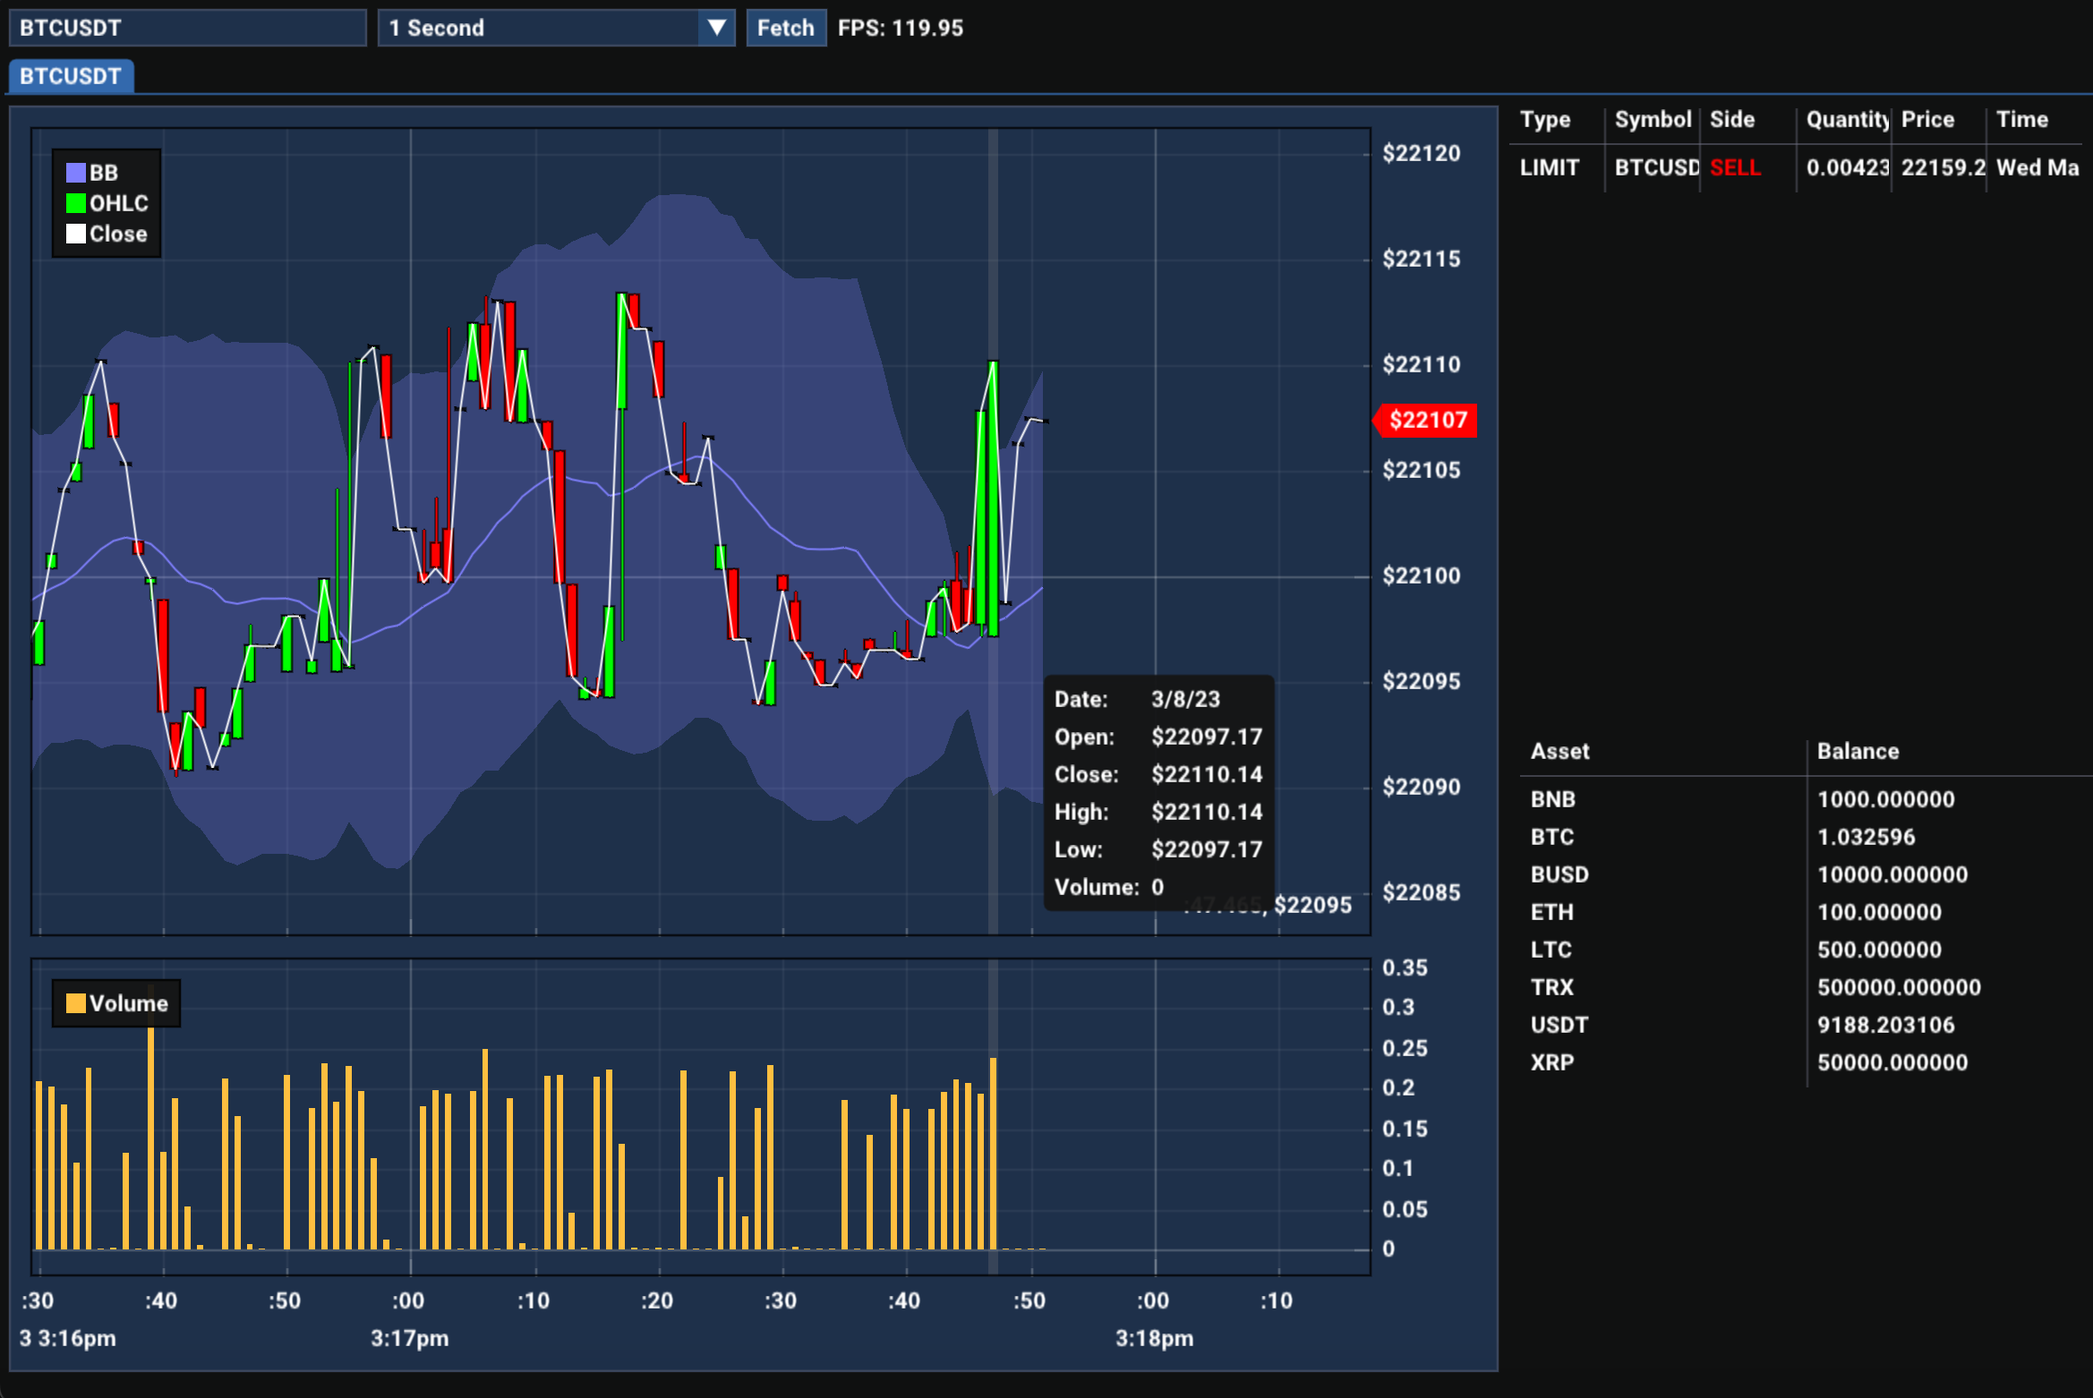
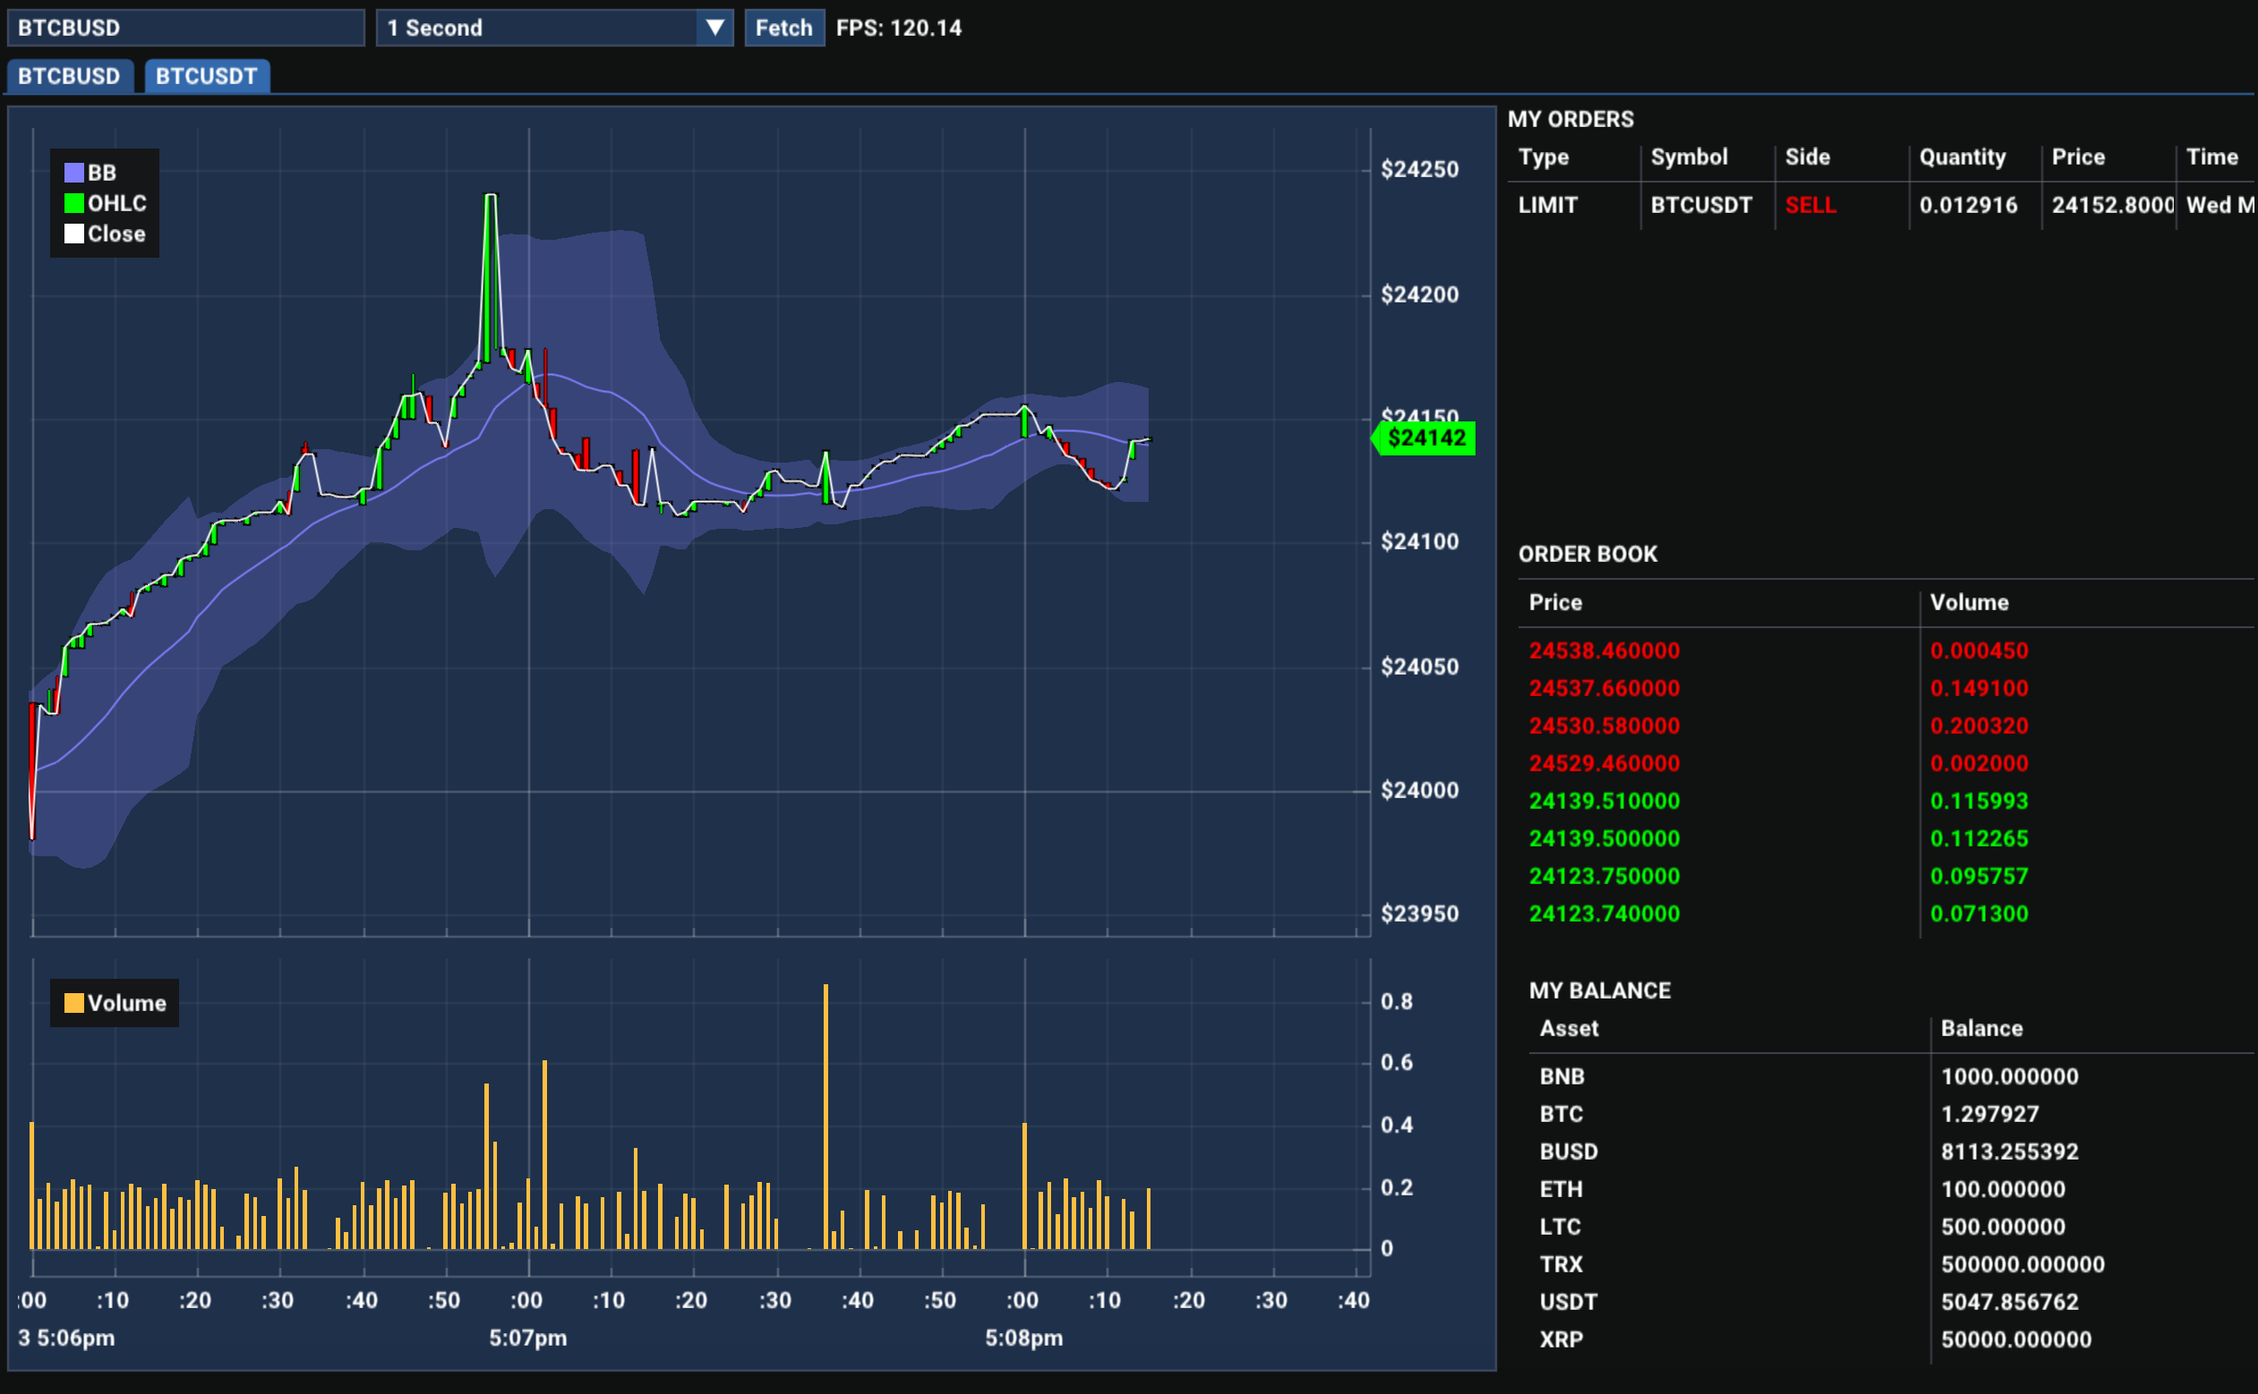
Fix order manager, add examples

diff --git a/examples/market_making.cpp b/examples/market_making.cpp
@@ -1,0 +1,133 @@
+/**
+ * @file market_making.cpp
+ * @author Anouar Achghaf
+ * @date 15/03/2023
+ * @brief Market making strategy
+ */
+
+#include "ats.h"
+#include "binance_logger.h"
+#include "Plotter.h"
+#include <numeric>
+#include <ctime>
+
+using namespace ats;
+
+class MMStrategy : public Strategy {
+public:
+    /**
+     * @brief Constructs an ExampleStrategy object
+     * @param symbol The symbol the strategy will trade
+     * @param data MarketData object to get market information
+     * @param orderManager OrderManager object to create and manage orders
+     * @param prices Vector of historical prices (default empty)
+     */
+    MMStrategy(std::string symbol, MarketData &data, OrderManager &orderManager,
+               std::string hedgeSymbol)
+            : Strategy(symbol, data, orderManager, {}), mHedgeSymbol(hedgeSymbol) {}
+
+private:
+    std::map<std::string, double> mBalances;
+    std::string mHedgeSymbol;
+    std::vector<double> mHedgePrices;
+    time_t mLastOrder{0};
+    time_t mDataFetch{0};
+public:
+    ~MMStrategy() {
+        mOrderManager.cancelAllOrders();
+        stop();
+    }
+
+    virtual void updatePrice() override {
+        double currentPrice = mData.getPrice(mSymbol);
+        double hedgePrice = mData.getPrice(mHedgeSymbol);
+        time_t new_t;
+        time(&new_t);
+        if (difftime(new_t, mDataFetch) > 1) {
+            mPrices.push_back(currentPrice);
+            mHedgePrices.push_back(hedgePrice);
+            time(&mDataFetch);
+        }
+    }
+
+    virtual double getSignal() override {
+        updatePrice();
+        auto ob1 = mData.getOrderBook(mSymbol);
+        auto ob2 = mData.getOrderBook(mHedgeSymbol);
+        if (ob1.bid.empty() || ob2.bid.empty() || ob1.ask.empty() || ob2.ask.empty())
+            return 0;
+        if (ob1.bid[0] > ob2.ask[0])
+            return 1;
+        else if (ob2.bid[0] > ob1.ask[0])
+            return -1;
+        return 0;
+    }
+
+    void updateBalance() {
+        mBalances = mData.getBalances();
+    }
+
+    virtual void buy() override {
+        time_t curTime(0);
+        time(&curTime);
+        if (difftime(curTime, mLastOrder) < 5)
+            return;
+        updateBalance();
+        double quantity = floor(mBalances["BTC"]*0.01 * 1e6) / 1e6;
+        quantity = std::min(quantity, floor(mBalances["USDT"]*0.01/mHedgePrices.back()*1e6)/1e6);
+        if (quantity < 1e-6) return;
+        OrderBook ob1 = mData.getOrderBook(mSymbol);
+        OrderBook ob2 = mData.getOrderBook(mHedgeSymbol);
+        quantity = std::min(quantity, ob1.bidVol[0]);
+        double price = ob1.bid[0];
+        if (price*quantity < 10) return;
+        mOrderManager.setLastOrderQty(-1);
+        mOrderManager.createOrder(Order(0, LIMIT, SELL, mSymbol,
+                                        quantity,
+                                        price, 0, 0, 0, 0, "IOC", 0));
+        while (mOrderManager.getLastOrderQty() == -1) continue;
+        double qty = mOrderManager.getLastOrderQty();
+        mOrderManager.setLastOrderQty(-1);
+        if (qty > 1e-7)
+            mOrderManager.createOrder(Order(0, LIMIT, BUY, mHedgeSymbol, qty, ob2.ask[0], 0, 0, 0, 0, "GTC", 0));
+        time(&mLastOrder);
+    }
+
+    virtual void sell() override {
+        time_t curTime(0);
+        time(&curTime);
+        if (difftime(curTime, mLastOrder) < 5)
+            return;
+        updateBalance();
+        double quantity = floor(mBalances["BTC"]*0.01 * 1e6) / 1e6;
+        quantity = std::min(quantity, floor(mBalances["BUSD"]*0.01/mPrices.back()*1e6)/1e6);
+        if (quantity < 1e-6) return;
+        OrderBook ob1 = mData.getOrderBook(mSymbol);
+        OrderBook ob2 = mData.getOrderBook(mHedgeSymbol);
+        quantity = std::min(quantity, ob1.bidVol[0]);
+        double price = ob1.ask[0];
+        if (price*quantity < 10) return;
+        mOrderManager.setLastOrderQty(-1);
+        mOrderManager.createOrder(Order(0, LIMIT, BUY, mSymbol,
+                                        quantity,
+                                        price, 0, 0, 0, 0, "IOC", 0));
+        while (mOrderManager.getLastOrderQty() == -1) continue;
+        double qty = mOrderManager.getLastOrderQty();
+        mOrderManager.setLastOrderQty(-1);
+        if (qty > 1e-7)
+            mOrderManager.createOrder(Order(0, LIMIT, SELL, mHedgeSymbol, qty, ob2.bid[0], 0, 0, 0, 0, "GTC", 0));
+        time(&mLastOrder);
+    }
+};
+
+int main(int argc, char const *argv[]) {
+    binance::Logger::set_debug_level(1);
+    binance::Logger::set_debug_logfp(stderr);
+    OrderManager oms;
+    BinanceExchangeManager ems(oms, 1);
+    MarketData md({"BTCUSDT", "BTCBUSD"}, ems);
+    MMStrategy strat("BTCBUSD", md, oms, "BTCUSDT");
+    ImBinance app("ImBinance", 1280, 800, argc, argv, ems);
+    app.Run();
+    return 0;
+}

diff --git a/include/Plotter.h b/include/Plotter.h
@@ -253,7 +253,7 @@ struct ImBinance : App {
 
         time_t end_time;
         time(&end_time);
-        if (difftime(end_time, start_time) > 0) {
+        if (difftime(end_time, start_time) > 3) {
             if (m_done_upd) {
                 if (t.joinable())
                     t.join();
@@ -389,9 +389,13 @@ struct ImBinance : App {
                     }
 
                     ImGui::SameLine();
-                    if (ImGui::BeginChild("Open orders", ImVec2(0.35*windowSize.x, 0.3*windowSize.y), true)) {
+                    if (ImGui::BeginChild("##OpenOrders", ImVec2(0.35*windowSize.x, 0.3*windowSize.y), true)) {
                         std::vector<ats::Order> open_orders = m_open_orders[data.ticker];
                         // display orders in a table
+                        ImFont* font = ImGui::GetIO().Fonts->Fonts[0];
+                        font->Scale = 1.2f;
+                        ImGui::Text("MY ORDERS", true);
+                        font->Scale = 1.0f;
                         if (!open_orders.empty()) {
                             ImGui::Columns(6, "OpenOrdersTable", true);
                             ImGui::Text("Type");
@@ -433,11 +437,17 @@ struct ImBinance : App {
                     }
 
                     ImGui::SameLine();
-                    ImGui::SetCursorPosY(ImGui::GetCursorPosY() + 0.3*windowSize.y);
+                    ImGui::SetCursorPosY(ImGui::GetCursorPosY() + 0.31*windowSize.y);
                     ImGui::SetCursorPosX(ImGui::GetCursorPosX() - 0.35*windowSize.x);
-                    if (ImGui::BeginChild("Order book", ImVec2(0.35*windowSize.x, 0.3*windowSize.y), true)) {
+                    if (ImGui::BeginChild("##Order book", ImVec2(0.35*windowSize.x, 0.3*windowSize.y), true)) {
                         ats::OrderBook orderBook = m_order_books[data.ticker];
                         if (!orderBook.bid.empty() || !orderBook.ask.empty()) {
+                            ImFont* font = ImGui::GetIO().Fonts->Fonts[0];
+                            font->Scale = 1.2f;
+                            ImGui::Text("ORDER BOOK", true);
+                            font->Scale = 1.0f;
+                            ImGui::NextColumn();
+                            ImGui::Separator();
                             ImGui::Columns(2, "OrderBook", true);
                             ImGui::Text("Price");
                             ImGui::NextColumn();
@@ -445,14 +455,14 @@ struct ImBinance : App {
                             ImGui::NextColumn();
                             ImGui::Separator();
                             ImGui::PushStyleColor(ImGuiCol_Text, IM_COL32(255, 0, 0, 255));
-                            for (int i = 0; i < std::min(10, (int)orderBook.ask.size()); i++) {
+                            for (int i = 0; i < std::min(4, (int)orderBook.ask.size()); i++) {
                                 ImGui::Text("%f", orderBook.ask[i]);
                                 ImGui::NextColumn();
                                 ImGui::Text("%f", orderBook.askVol[i]);
                                 ImGui::NextColumn();
                             }
                             ImGui::PushStyleColor(ImGuiCol_Text, IM_COL32(0, 255, 0, 255));
-                            for (int i = 0; i < std::min(10, (int)orderBook.bid.size()); i++) {
+                            for (int i = 0; i < std::min(4, (int)orderBook.bid.size()); i++) {
                                 ImGui::Text("%f", orderBook.bid[i]);
                                 ImGui::NextColumn();
                                 ImGui::Text("%f", orderBook.bidVol[i]);
@@ -467,10 +477,14 @@ struct ImBinance : App {
                     }
 
                     ImGui::SameLine();
-                    ImGui::SetCursorPosY(ImGui::GetCursorPosY() + 0.6*windowSize.y);
+                    ImGui::SetCursorPosY(ImGui::GetCursorPosY() + 0.62*windowSize.y);
                     ImGui::SetCursorPosX(ImGui::GetCursorPosX() - 0.35*windowSize.x);
-                    if (ImGui::BeginChild("Balances", ImVec2(0.35*windowSize.x, 0.3*windowSize.y), false)) {
-                        auto &b = m_balances;
+                    if (ImGui::BeginChild("##Balances", ImVec2(0.35*windowSize.x, 0.3*windowSize.y), false)) {
+                        ImFont* font = ImGui::GetIO().Fonts->Fonts[0];
+                        font->Scale = 1.2f;
+                        ImGui::Text("MY BALANCE", true);
+                        font->Scale = 1.0f;
+                         auto &b = m_balances;
                         if (!b.empty()) {
                             ImGui::Columns(2, "BalancesTable", true);
                             ImGui::Text("Asset");

diff --git a/src/BinanceExchangeManager.cpp b/src/BinanceExchangeManager.cpp
@@ -74,16 +74,23 @@ namespace ats {
         mOrderManager.updateOpenOrders(openOrders);
     }
 
-    void BinanceExchangeManager::sendOrder(Order &order) {
+    double BinanceExchangeManager::sendOrder(Order &order) {
         Json::Value result;
         BINANCE_ERR_CHECK(mAccount.sendOrder(result, order.symbol.c_str(),
                                              SideToString(order.side).c_str(), OrderTypeToString(order.type).c_str(),
                                              order.timeInForce.c_str(), order.quantity, order.price, "",
                                              order.stopPrice, order.icebergQty, order.recvWindow));
         Logger::write_log(result.toStyledString().c_str());
-        order.emsId = result["orderId"].asInt64();
+        if (result.isMember("orderId"))
+            order.emsId = result["orderId"].asInt64();
         omsToEmsId[order.id] = order.emsId;
         emsToOmsId[order.emsId] = order.id;
+        if (result.isMember("executedQty")) {
+            mOrderManager.setLastOrderQty(stod(result["executedQty"].asString()));
+            return stod(result["executedQty"].asString());
+        }
+        mOrderManager.setLastOrderQty(0);
+        return 0;
     }
 
     void BinanceExchangeManager::modifyOrder(Order &oldOrder, Order &newOrder) {

diff --git a/include/OrderManager.h b/include/OrderManager.h
@@ -160,7 +160,8 @@ namespace ats {
         std::mutex mOrderFetchMutex; ///< A mutex for accessing mSentOrders
         bool mRunning; ///< A flag indicating if the order manager is running
         long mOrderCount; ///< A counter for the number of orders processed
-        std::set<std::string> mSymbols;
+        std::set<std::string> mSymbols; ///< A set of subscribed symbols
+        double mLastOrderQty;
     public:
         /**
          * @brief Construct a new OrderManager object
@@ -205,6 +206,19 @@ namespace ats {
          * @return true if the order manager is running, false otherwise
          */
         bool isRunning();
+
+        /**
+         * @brief Get last filled order quantity
+         *
+         * @return -1 if not set, quantity of last filled order otherwise.
+         */
+         double getLastOrderQty();
+
+         /**
+          * @brief Sets last filled order quantity
+          *
+          */
+          void setLastOrderQty(double qty);
 
         /**
          * @brief Create a new order and add it to the queue

diff --git a/include/BinanceExchangeManager.h b/include/BinanceExchangeManager.h
@@ -47,8 +47,8 @@ namespace ats {
          * @param api_key The API key for the Binance exchange account.
          * @param secret_key The secret key for the Binance exchange account.
          */
-        explicit BinanceExchangeManager(OrderManager &orderManager, bool isSimulation = true, std::string api_key = "",
-                                        std::string secret_key = "");
+        explicit BinanceExchangeManager(OrderManager &orderManager, bool isSimulation = true, std::string apiKey = "",
+                                        std::string secretKey = "");
 
         /**
          * @brief Destructor for BinanceExchangeManager class.
@@ -94,8 +94,9 @@ namespace ats {
          * @brief Send an order to the Binance exchange.
          *
          * @param order The Order object to be sent.
+         * @return Filled quantity.
          */
-        void sendOrder(Order &order) override;
+        double sendOrder(Order &order) override;
 
         /**
          * @brief Modify an existing order on the Binance exchange.

diff --git a/examples/reset_testnet_balance.cpp b/examples/reset_testnet_balance.cpp
@@ -1,0 +1,26 @@
+/**
+ * @file reset_testnet_balance.cpp
+ * @author Anouar Achghaf
+ * @date 15/03/2023
+ * @brief Reset test net balance to closer to original
+ */
+
+#include "ats.h"
+#include "binance_logger.h"
+#include "Plotter.h"
+
+using namespace ats;
+
+int main(int argc, char const *argv[]) {
+    binance::Logger::set_debug_level(1);
+    binance::Logger::set_debug_logfp(stderr);
+    OrderManager oms;
+    BinanceExchangeManager ems(oms, 1);
+    auto balances = ems.getBalances();
+//    oms.createOrder(Order(0, ats::MARKET, ats::SELL, "BTCUSDT", balances["BTC"]-1, 0));
+//    oms.createOrder(Order(0, ats::MARKET, ats::BUY, "BTCUSDT", floor((balances["USDT"]-10000)/ems.getPrice("BTCUSDT")*1e6)/1e6, 0));
+//    oms.createOrder(Order(0, ats::MARKET, ats::SELL, "BTCBUSD", floor((balances["BTC"]-1)*1e6)/1e6, 0));
+    ImBinance app("ImBinance", 1280, 800, argc, argv, ems);
+    app.Run();
+    return 0;
+}

diff --git a/src/OrderManager.cpp b/src/OrderManager.cpp
@@ -59,6 +59,7 @@ namespace ats {
     OrderManager::OrderManager(std::vector<std::string> symbols) {
         for (std::string symbol : symbols)
             mSymbols.insert(symbol);
+        setLastOrderQty(-1);
         start();
     }
 
@@ -83,6 +84,14 @@ namespace ats {
 
     bool OrderManager::isRunning() {
         return mRunning;
+    }
+
+    double OrderManager::getLastOrderQty() {
+        return mLastOrderQty;
+    }
+
+    void OrderManager::setLastOrderQty(double qty) {
+        mLastOrderQty = qty;
     }
 
     void OrderManager::createOrder(OrderType type, Side side, std::string symbol, double quantity, double price) {

diff --git a/src/Plotter.cpp b/src/Plotter.cpp
@@ -14,7 +14,7 @@ TickerData BinanceAPI::get_ticker(std::string ticker, ImPlotTime start_date, ImP
 
     try {
         TickerData data(ticker);
-        for (Json::Value::ArrayIndex i = 0; i < std::max(Json::Value::ArrayIndex(1), result.size()); i++) {
+        for (Json::Value::ArrayIndex i = 0; i < result.size(); i++) {
             double t = jsonToDouble(result[i][0])/1000;
             double o = jsonToDouble(result[i][1]);
             double h = jsonToDouble(result[i][2]);

diff --git a/include/ExchangeManager.h b/include/ExchangeManager.h
@@ -46,8 +46,9 @@ namespace ats {
          * @brief Sends an order to the exchange.
          *
          * @param order The order to be sent to the exchange.
+         * @return Filled quantity.
          */
-        virtual void sendOrder(Order &order) = 0;
+        virtual double sendOrder(Order &order) = 0;
 
         /**
          * @brief Modifies an existing order on the exchange.

diff --git a/src/MarketData.cpp b/src/MarketData.cpp
@@ -117,7 +117,7 @@ namespace ats {
     }
 
     void MarketData::updateOrderBook(const std::string &symbol) {
-        OrderBook orderBook = getOrderBook(symbol);
+        OrderBook orderBook = mExchangeManager.getOrderBook(symbol);
         std::lock_guard<std::mutex> lock(mDataMutex);
         mOrderBooks[symbol] = orderBook;
     }
